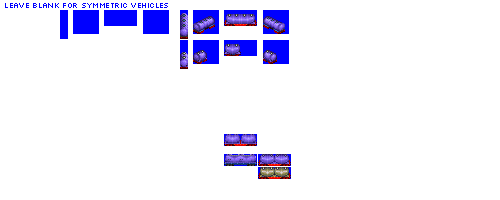
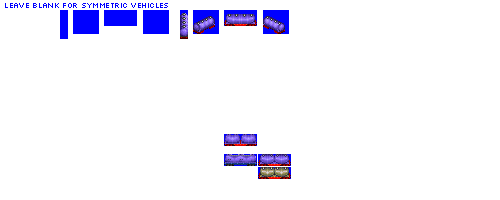
Change: 6 of 9 silo cars have sprites complete

Changed region(s): [[0.36, 0.06, 0.6, 0.36]]

diff --git a/src/vehicles/silo_cars.py b/src/vehicles/silo_cars.py
@@ -8,7 +8,7 @@ def main():
                              base_numeric_id=3680,
                              gen=4,
                              subtype='A',
-                             sprites_complete=False)
+                             sprites_complete=True)
 
     consist.add_unit(type=FreightCar,
                      chassis='2_axle_gapped_16px')
@@ -18,7 +18,7 @@ def main():
                              base_numeric_id=3690,
                              gen=4,
                              subtype='B',
-                             sprites_complete=False)
+                             sprites_complete=True)
 
     consist.add_unit(type=FreightCar,
                      chassis='4_axle_filled_24px')
@@ -28,7 +28,7 @@ def main():
                              base_numeric_id=3700,
                              gen=4,
                              subtype='C',
-                             sprites_complete=False)
+                             sprites_complete=True)
 
     consist.add_unit(type=FreightCar,
                      chassis='4_axle_filled_greebled_32px')
@@ -38,7 +38,7 @@ def main():
                              base_numeric_id=3620,
                              gen=5,
                              subtype='A',
-                             sprites_complete=False)
+                             sprites_complete=True)
 
     consist.add_unit(type=FreightCar,
                      chassis='2_axle_gapped_greebled_16px')
@@ -48,7 +48,7 @@ def main():
                              base_numeric_id=3630,
                              gen=5,
                              subtype='B',
-                             sprites_complete=False)
+                             sprites_complete=True)
 
     consist.add_unit(type=FreightCar,
                      chassis='4_axle_1cc_filled_24px')
@@ -58,7 +58,7 @@ def main():
                              base_numeric_id=3640,
                              gen=5,
                              subtype='C',
-                             sprites_complete=False)
+                             sprites_complete=True)
 
     consist.add_unit(type=FreightCar,
                      chassis='4_axle_1cc_filled_32px')
